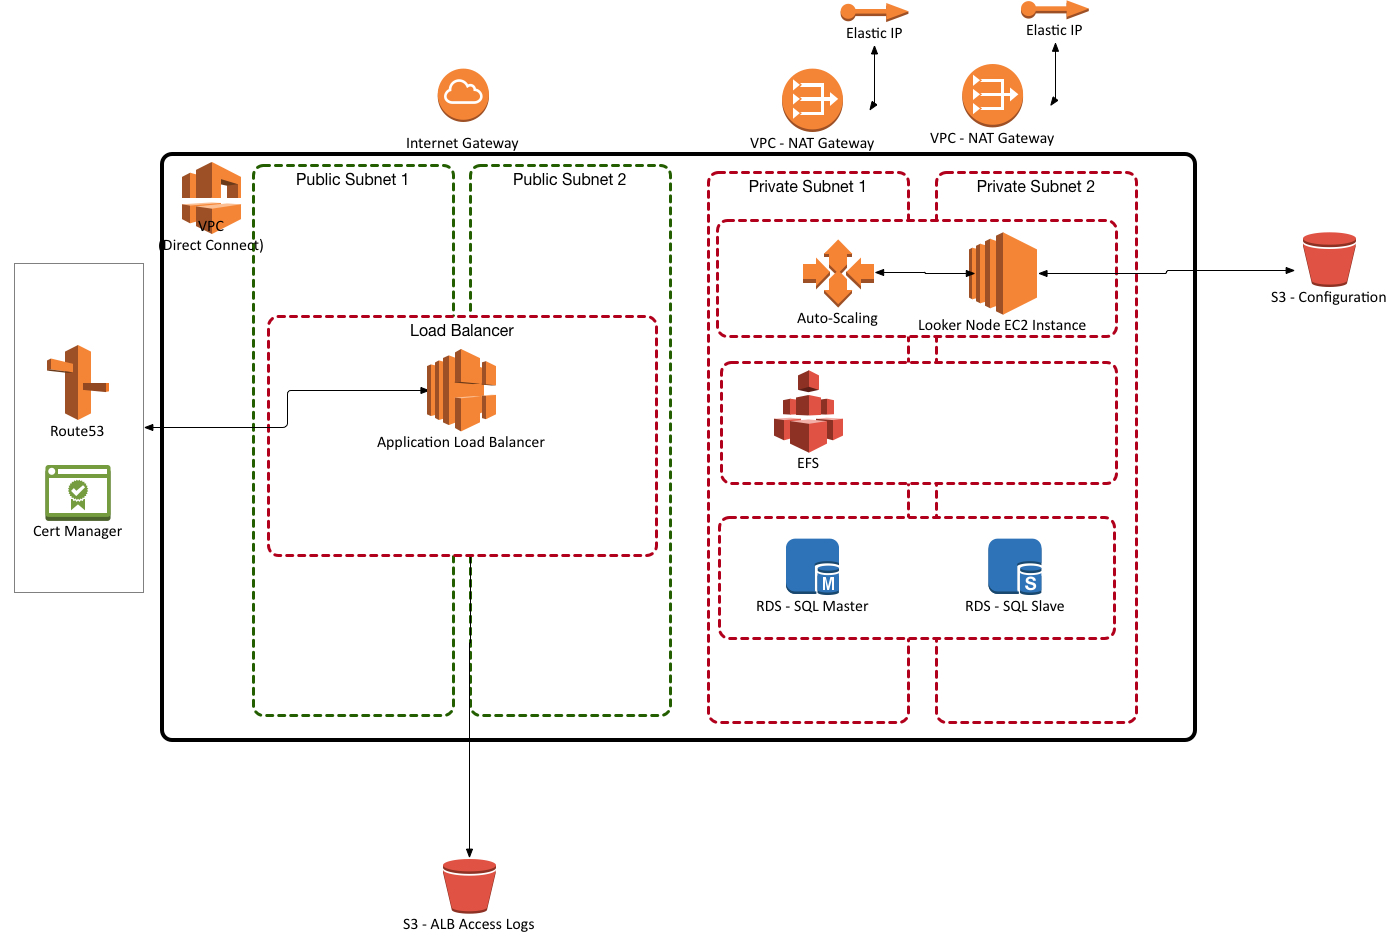
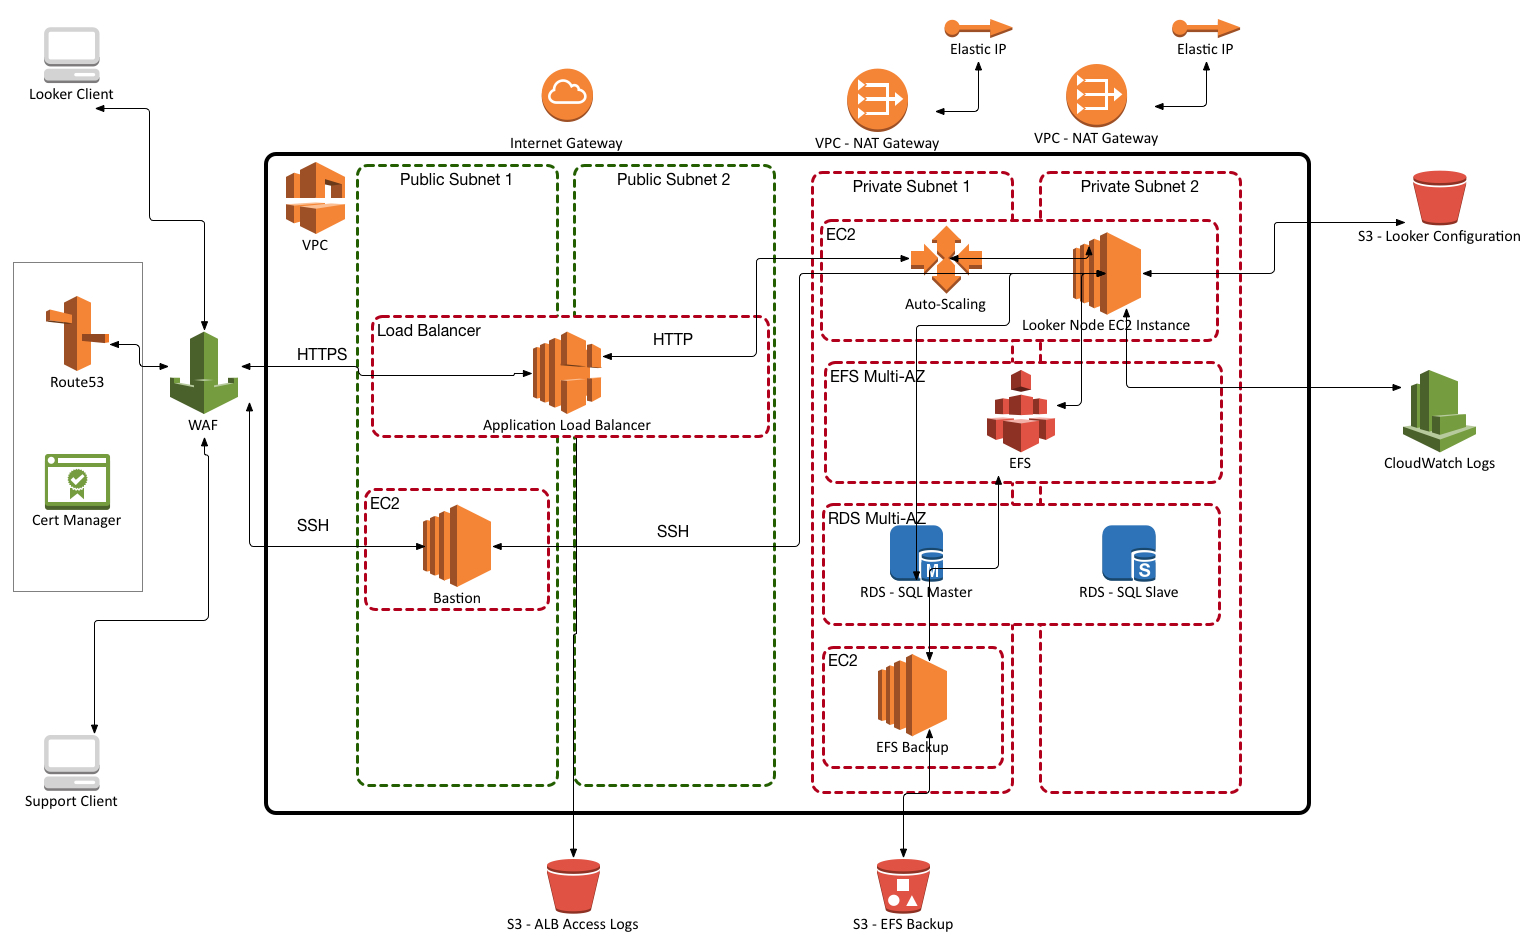
Updated aws diagram

diff --git a/README.md b/README.md
@@ -1,5 +1,4 @@
 # What is this?
-## THIS IS A WIP
 
 This is the terraform code to create the following Looker architecture(assuming all the VPC's / Subnets are already in place).
 
